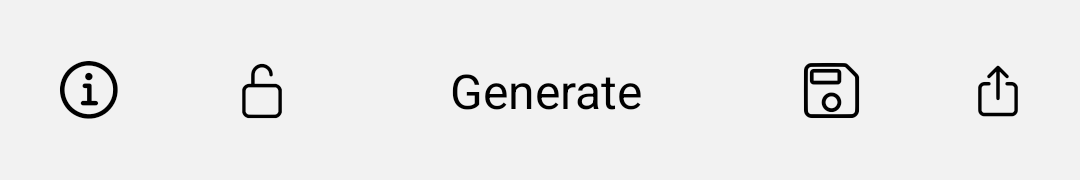
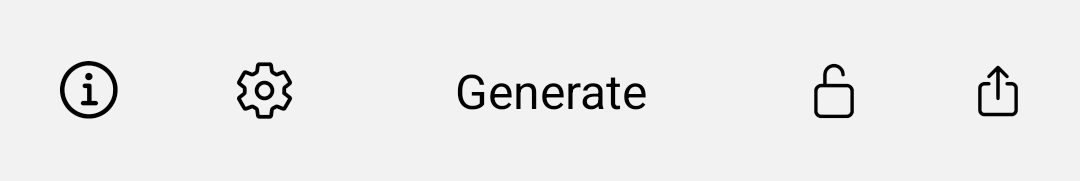
Edit Bottom Toolbar and Info Modal

diff --git a/app/generator.tsx b/app/generator.tsx
@@ -2,15 +2,16 @@ import { StyleSheet, Text, View, StatusBar, Pressable } from "react-native";
 import React, { useState } from "react";
 import { Ionicons } from "@expo/vector-icons";
 import InfoModal from "@/components/InfoModal";
+import { useRouter } from "expo-router";
 
 const Generator = () => {
+	const router = useRouter();
 	const getRandomHexCode = (): string => {
 		const letters = "0123456789ABCDEF";
 		let hexCode = "#";
 		for (let i = 0; i < 6; i++) {
 			hexCode += letters[Math.floor(Math.random() * 16)];
 		}
-		// console.log(hexCode);
 		return hexCode;
 	};
 
@@ -30,9 +31,10 @@ const Generator = () => {
 
 	/* 
     Copilot clutched out on this code. 
-    This function 
+    Function finds the luma of the color and returns if it is < 128.
+	Using this to determine whether the text above the color should be white or black.
     */
-	const isColorDark = (color: string) => {
+	const isColorDark = (color: string): boolean => {
 		const c = color.substring(1);
 		const rgb = parseInt(c, 16);
 		const r = (rgb >> 16) & 0xff;
@@ -48,7 +50,6 @@ const Generator = () => {
 		lock3 ? null : setColor3(getRandomHexCode());
 		lock4 ? null : setColor4(getRandomHexCode());
 		lock5 ? null : setColor5(getRandomHexCode());
-		// console.log(color1, color2, color3, color4, color5);
 	};
 
 	const testFunction = (): void => {
@@ -183,7 +184,6 @@ const Generator = () => {
 				<Pressable
 					onPress={() => {
 						setModalVisible(true);
-						console.log("Modal fr");
 					}}
 				>
 					<InfoModal
@@ -196,6 +196,20 @@ const Generator = () => {
 						size={28}
 					/>
 				</Pressable>
+				<Pressable onPress={() => router.push("/settings")}>
+					<Ionicons
+						name="settings-outline"
+						color={"#000000"}
+						size={24}
+					/>
+				</Pressable>
+				<Pressable
+					style={styles.button}
+					onPress={generateRandomHexCodes}
+				>
+					<Text style={styles.buttonText}>Generate</Text>
+				</Pressable>
+
 				<Pressable
 					onPress={() => {
 						setLock1(false);
@@ -209,20 +223,6 @@ const Generator = () => {
 						name="lock-open-outline"
 						color={"#000000"}
 						size={22}
-					/>
-				</Pressable>
-				<Pressable
-					style={styles.button}
-					onPress={generateRandomHexCodes}
-				>
-					<Text style={styles.buttonText}>Generate</Text>
-				</Pressable>
-
-				<Pressable>
-					<Ionicons
-						name="save-outline"
-						color={"#000000"}
-						size={24}
 					/>
 				</Pressable>
 				<Pressable>
@@ -241,7 +241,6 @@ export default Generator;
 
 const styles = StyleSheet.create({
 	container: {
-		// marginHorizontal: 10,
 		flex: 1,
 	},
 	view: {

diff --git a/components/InfoModal.tsx b/components/InfoModal.tsx
@@ -24,7 +24,7 @@ const InfoModal: React.FC<InfoModalProps> = ({ visible, onClose }) => {
 			>
 				<View style={styles.modalContent}>
 					<StatusBar hidden={true} />
-					<Text style={{ fontSize: 20, fontFamily: "Merienda_700Bold" }}>
+					<Text style={{ fontSize: 20, fontWeight: "bold" }}>
 						Welcome to HexSplash!
 					</Text>
 					<Image
@@ -33,7 +33,8 @@ const InfoModal: React.FC<InfoModalProps> = ({ visible, onClose }) => {
 						resizeMode="contain"
 					/>
 					<Text style={styles.contentText}>
-						Click on the color view to change it to a randomised colour.
+						Click on the color view to change it to a randomised color, or click
+						the Generate button below to randomise all.
 					</Text>
 					<Text>{"    "}</Text>
 					<Text style={styles.contentText}>
@@ -69,22 +70,22 @@ const InfoModal: React.FC<InfoModalProps> = ({ visible, onClose }) => {
 					<Text>{"    "}</Text>
 					<Text style={styles.contentText}>
 						<Ionicons
+							name="settings-outline"
+							color={"#000000"}
+							size={16}
+						/>
+						{"    "}
+						App Settings
+					</Text>
+					<Text>{"    "}</Text>
+					<Text style={styles.contentText}>
+						<Ionicons
 							name="lock-open-outline"
 							color={"#000000"}
 							size={16}
 						/>
 						{"    "}
 						Unlock all locks
-					</Text>
-					<Text>{"    "}</Text>
-					<Text style={styles.contentText}>
-						<Ionicons
-							name="folder-open-outline"
-							color={"#000000"}
-							size={16}
-						/>
-						{"    "}
-						Save your palette
 					</Text>
 					<Text>{"    "}</Text>
 					<Text style={styles.contentText}>

diff --git a/app/_layout.tsx b/app/_layout.tsx
@@ -16,11 +16,6 @@ export {
 	ErrorBoundary,
 } from "expo-router";
 
-export const unstable_settings = {
-	// Ensure that reloading on `/modal` keeps a back button present.
-	initialRouteName: "(tabs)",
-};
-
 // Prevent the splash screen from auto-hiding before asset loading is complete.
 SplashScreen.preventAutoHideAsync();
 
@@ -62,10 +57,14 @@ function RootLayoutNav() {
 					name="generator"
 					options={{ headerShown: false }}
 				/>
-				{/* <Stack.Screen
-					name="(tabs)"
-					options={{ headerShown: false }}
-				/> */}
+				<Stack.Screen
+					name="settings"
+					options={{
+						headerTitle: "Settings",
+						headerShadowVisible: false,
+						headerStyle: { backgroundColor: "#f2f2f2" },
+					}}
+				/>
 			</Stack>
 		</ThemeProvider>
 	);

diff --git a/app/settings.tsx b/app/settings.tsx
@@ -1,0 +1,33 @@
+import { StyleSheet, Text, View } from "react-native";
+import React from "react";
+import { Fontisto, Ionicons } from "@expo/vector-icons";
+
+const SettingsPage = () => {
+	return (
+		<View style={styles.container}>
+			<Ionicons
+				name={"settings-outline"}
+				color={"#e0e0e0"}
+				size={256}
+			/>
+			<Text style={styles.contentText}>
+				There are no settings to be customised... yet!
+			</Text>
+		</View>
+	);
+};
+
+export default SettingsPage;
+
+const styles = StyleSheet.create({
+	container: {
+		flex: 1,
+		justifyContent: "center",
+		gap: 64,
+		alignItems: "center",
+	},
+	contentText: {
+		fontSize: 18,
+		color: "#a0a0a0",
+	},
+});

diff --git a/README.md b/README.md
@@ -1,20 +1,62 @@
 # HexSplash
 
-A simple to use color pallete generator app, which generates random colors for you to use in your next design. This project has been inspired from the https://coolors.co/ tool.
+Color palette generator app, generating 5 random colours for being used as design inspiration to be used in a design. The app functions on the frontend, and uses a randomiser function to randomise the colors on the screen.
 
 # Tech Stack
 
-**Frameworks & Languages**
+### Frameworks & Languages
 
 - React Native
 - Expo
 - JavaScript
 - TypeScript
 
-**Dependencies**
+### Dependencies
 
 - `expo-router` File-based Routing & Navigation
 - `react-native-reanimated` App Animations
 - `react-native-gesture-handler` Gesture Handling
 - `expo-linear-gradient` Gradient Backgrounds
 - `expo-font` Google Fonts
+
+# Run Locally
+
+### Pre-requisites
+
+- Node.js
+- Expo CLI
+- Expo Go Mobile App
+
+### Installation
+
+1. Clone this Repository, then change directory to the HexSplash directory.
+
+```
+https://github.com/ChitrakshTarun/HexSplash.git
+```
+
+```
+cd HexSplash
+```
+
+2. Install Dependencies
+
+```
+npm install
+```
+
+3. Start up the app
+
+```
+npx expo start
+```
+
+4. Use the Expo Go app to scan the QR code and run the app on your mobile device.
+
+You can alternatively use an emulator using Android Studio or XCode to run the app on an emulator as well.
+
+# Contributions
+
+I have developed this app as a learning project to learn about the concepts of React/React Native/Expo. I am open to open-source contributions towards this app, if any, which can help in optimising the code or improving/adding the features inside the app.
+
+[ This project has been inspired from the https://coolors.co/ tool. ]
